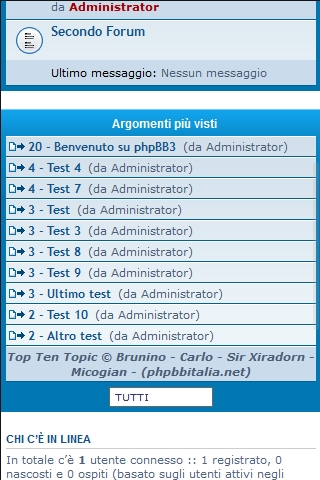
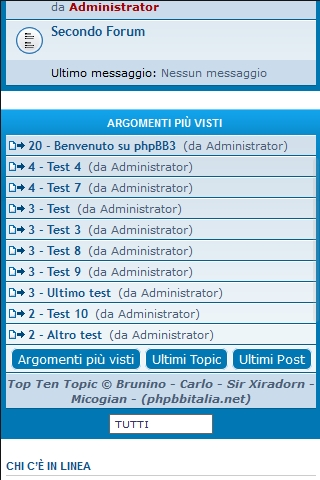
New Code Update

Changed region(s): [[0.0, 0.25, 1.0, 1.0]]

diff --git a/README.md b/README.md
@@ -5,7 +5,11 @@ Extensione per phpBB 3.1 per mostrare gi ultimi argomenti, post e gli argomenti 
 Un menu permette poi di fare un filtraggio dei contenuti.  
 *Questa Estensione è il porting della MOD creata da Micogian*
 
-![Screen](screen1.jpg)
+![Desktop Version](screen1.jpg)  
+`Desktop Version`
+
+![Mobile Version](screen2.jpg)  
+`Mobile Version`
 
 ##### Basata sulla mod creata da Micogian per phpBB 3.0.X
   
